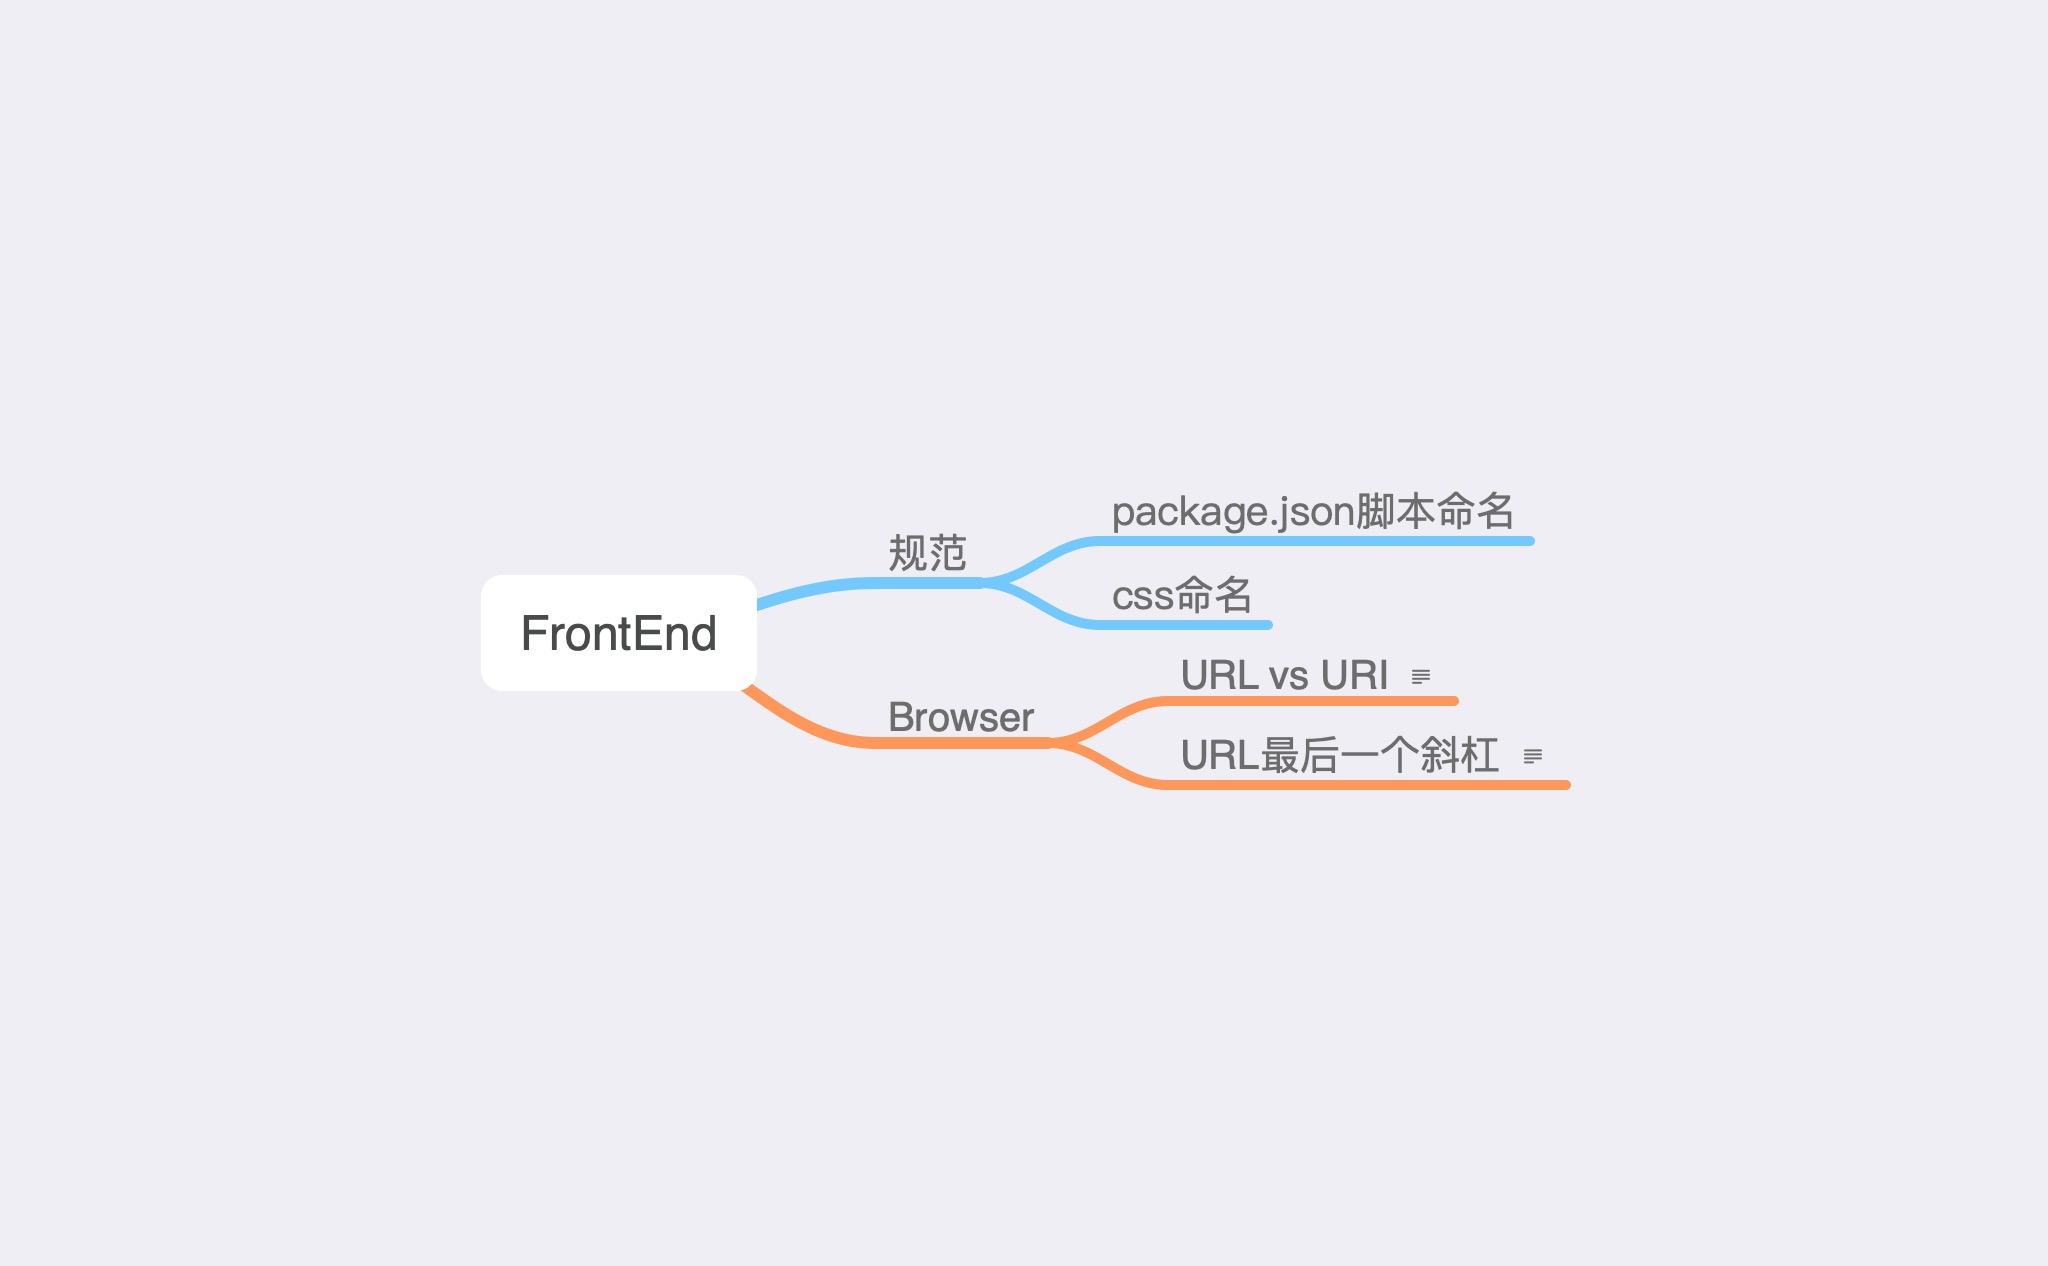
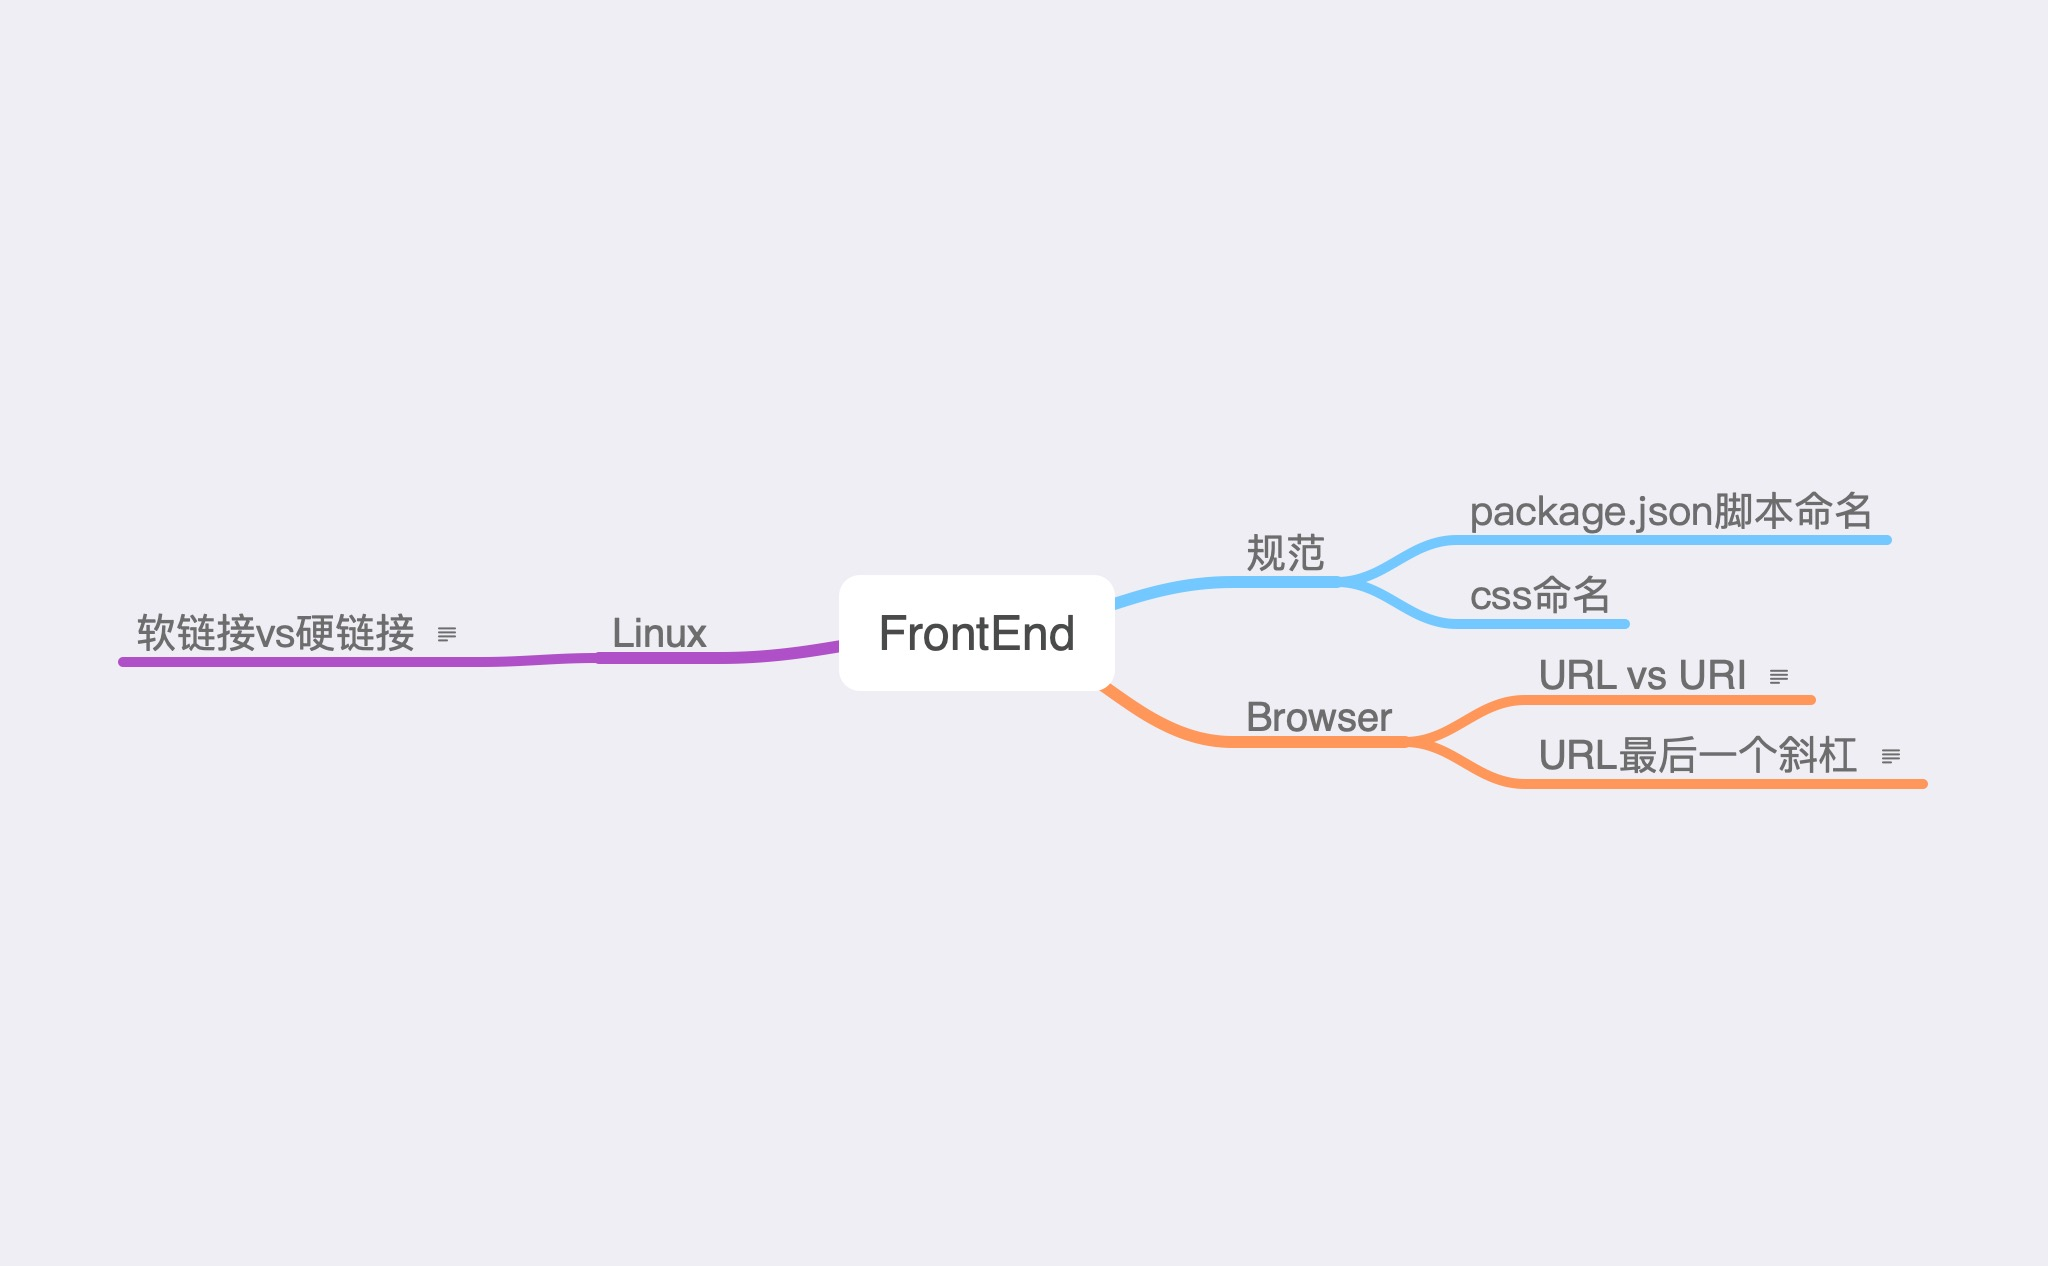
update

Changed region(s): [[0.0625, 0.3697, 0.9375, 0.6469]]

diff --git a/source/blogs/94.软链接与硬链接.md b/source/blogs/94.软链接与硬链接.md
@@ -1,11 +1,134 @@
 # 软链接与硬链接
 
-### 硬链接(Hard Link)
 
-在 Linux 系统中保存在磁盘分区中的文件系统都会分配一个叫 Inode index 的节点编号，通过这个编号就能够获取到相关文件的内容及信息，并且多个文件可以指向同一个节点编号。当文件移动后节点编号所指向的文件地址会自动变化。
+软链接 vs 硬链接:
+![](http://blog-bed.oss-cn-beijing.aliyuncs.com/94.%E8%BD%AF%E9%93%BE%E6%8E%A5%E4%B8%8E%E7%A1%AC%E9%93%BE%E6%8E%A5/hard-vs-soft.png)
 
-所谓的硬链接就是通过节点编号来引用文件的一个文件。
+### 节点索引(Inode index)
 
+在 Linux 系统中保存在磁盘分区中的文件，系统都会分配一个叫 Inode index 的节点索引，通过这个索引就能够获取到相关文件的内容及信息，并且多个文件可以指向同一个节点索引。当文件的索引节点还存在一个以上的链接时，删除其中一个链接并不影响索引节点本身和其他的链接。当文件移动后节点索引所指向的文件地址会自动变化。
 ### 软连接(Symbolic Link)
 
-软链接即符号链接，就像一个文件的快捷方式，它直接指向原始文件而不是文件的节点编号。修改软连接会直接修改源文件。
+软链接即符号链接，就像一个文件的快捷方式，它直接指向原始文件而不是文件的节点索引。打开软链接文件修改内容时实际修改的是源文件。删除源文件，软连接这个快捷方式就访问不到源文件了，也就失去了意义成了死链接。
+
+**创建软链接命令：**
+
+```code
+/*
+source: 源文件或文件夹(如果用相对路径，target移动后会找不到目标文件)
+target: 要建立的软连接目标文件或文件夹(不用预先创建)
+*/
+ln -s <source> <target>
+```
+
+假如有这样一个目录结构：
+
+```code
+//目录结构
+node/
+├── bin/
+├── lib/
+|   └── node_modules/
+|       └── npm/
+|           └── bin/
+|           |    └── npm-cli.js
+|           └── lib/
+|               └── cli.js
+
+------------分割线-------------
+//npm-cli.js内容
+#!/usr/bin/env node
+require('../lib/cli.js')(process)
+```
+
+我们在 node/bin 目录内创建 npm-cli.js 的软链接：
+
+```code
+$ ln -s ../lib/node_modules/npm/bin/npm-cli.js npm
+```
+
+执行命令后会在 node/bin 目录下生成一个带箭头的软连接文件npm:
+
+![](http://blog-bed.oss-cn-beijing.aliyuncs.com/94.%E8%BD%AF%E9%93%BE%E6%8E%A5%E4%B8%8E%E7%A1%AC%E9%93%BE%E6%8E%A5/symbolic.png)
+
+
+还可通过`ls -li`命令查看：
+
+```code
+//在node/bin目录执行
+$ ls  -li
+=>
+//2895655为节点索引，lrwxrwxrwx的第一个字符表示文件类型：l表示符号链接
+2895655 rwxrwxrwx@ 1 xinghunm  staff  38 Sep 18 12:05 npm -> ../lib/node_modules/npm/bin/npm-cli.js
+
+//在node/lib/node_modules/npm/bin下执行
+$ ls  -li
+=>//2883280为节点索引，-rwxr-xr-x@的第一个字符表示文件类型：-表示普通文件
+2883280 -rwxr-xr-x@ 1 xinghunm  staff    54 Mar 23  2023 npm-cli.js
+```
+可以看到软链接(npm)和源文件(npm-cli.js)的节点索引是不一样的。
+
+当我们查看**npm文件的内容**时实际是查看其链接的文件npm-cli.js(源文件)的内容:
+
+```code
+//npm内容
+#!/usr/bin/env node
+require('../lib/cli.js')(process)
+```
+
+路径`'../lib/cli.js'`实际是以源文件(npm-cli.js)路径为当前路径，而不是npm文件所在位置。
+
+### 硬链接(Hard Link)
+
+所谓的硬链接就是通过节点索引来引用文件，而不是像软链接那样直接引用文件。
+
+**创建硬链接命令：**
+
+```code
+/*
+source: 源文件
+target: 要建立的软连接目标文件(不用预先创建)
+*/
+ln <source> <target>
+```
+以软连接示例中的目录结构为例，我们在 node/bin 目录内创建 npm-cli.js 的硬链接：
+
+```code
+$ ln ../lib/node_modules/npm/bin/npm-cli.js npm
+```
+
+![](http://blog-bed.oss-cn-beijing.aliyuncs.com/94.%E8%BD%AF%E9%93%BE%E6%8E%A5%E4%B8%8E%E7%A1%AC%E9%93%BE%E6%8E%A5/hardlink.png)
+
+通过`ls -li`命令查看：
+
+```code
+//在node/bin目录执行
+$ ls  -li
+=>
+2883280 -rwxr-xr-x@ 2 xinghunm  staff  54 Mar 23  2023 npm
+
+//在node/lib/node_modules/npm/bin下执行
+$ ls  -li
+=>
+2883280 -rwxr-xr-x@ 1 xinghunm  staff    54 Mar 23  2023 npm-cli.js
+
+```
+可以看到硬连接(npm)和源文件(npm-cli.js)的节点索引是一样的。
+
+我们创建的硬链接npm实际是npm-cli.js的副本，其大小一致，指向内存同一片空间。当然这和拷贝是不一样的，拷贝是完全复制了一份新的，内存空间也是不一样的。而硬链接或软链接都不会将源文件完全复制一份。
+
+
+
+
+### 总结
+
+- 软连接支持对目录和文件进行链接而硬链接只支持对文件进行链接；
+- 删除软链接的源文件软链接将成死链接，而删除硬链接源文件，源文件内容仍能通过硬链接访问(节点索引的个数不为零)；
+- 移动以相对路径创建的软链接的源文件，软链接会找不到源文件而无法使用，而对于硬链接移动其源文件则不受影响；
+- 软链接以存放另一个文件的路径的形式存在(有自己的inode，占用较小)，硬链接以文件副本的形式存在(inode一样，同一内存空间)
+- 软链接可以跨不同的文件系统而而硬链接不可以；
+
+
+
+
+

diff --git a/source/blogs/91.常用编程tips.md b/source/blogs/91.常用编程tips.md
@@ -115,12 +115,28 @@
 
   ls(list directory contents)命令用于显示指定工作目录下之内容(列出目前工作目录所含的文件及子目录)。
 
-  ```code
-  //-l:以长格式(会显示更多信息)显示文件和目录信息
-  //输出第一列表示文件类型：l表示符号链接，-表示普通文件
-  $ ls -l
-  =>
-  -rw-r--r--  1 xinghunm  staff         0 Sep 22 13:07 1.txt
-  lrwxrwxrwx@ 1 xinghunm  staff        38 Sep 18 12:05 npm -> ../lib/node_modules/npm/bin/npm-cli.js
-  lrwxrwxrwx@ 1 xinghunm  staff        38 Sep 18 12:05 npx -> ../lib/node_modules/npm/bin/npx-cli.js
-  ```
+  - `-l`
+
+    `-l`表示以长格式(会显示更多信息)显示文件和目录信息
+
+    输出的第一列表示文件类型：l表示符号链接，-表示普通文件。
+
+    ```code
+    
+    $ ls -l
+    =>
+    -rw-r--r--  1 xinghunm  staff         0 Sep 22 13:07 1.txt
+    lrwxrwxrwx@ 1 xinghunm  staff        38 Sep 18 12:05 npm -> ../lib/node_modules/npm/bin/npm-cli.js
+    lrwxrwxrwx@ 1 xinghunm  staff        38 Sep 18 12:05 npx -> ../lib/node_modules/npm/bin/npx-cli.js
+    ```
+
+  - `-i`
+    
+    `-i`表示输出节点索引号(系统分配给每个文件的识别号):
+
+    ```code
+    $ ls -i
+    =>
+    //2889030为npm-cli.js的索引号
+    2889030 npm-cli.js
+    ```
